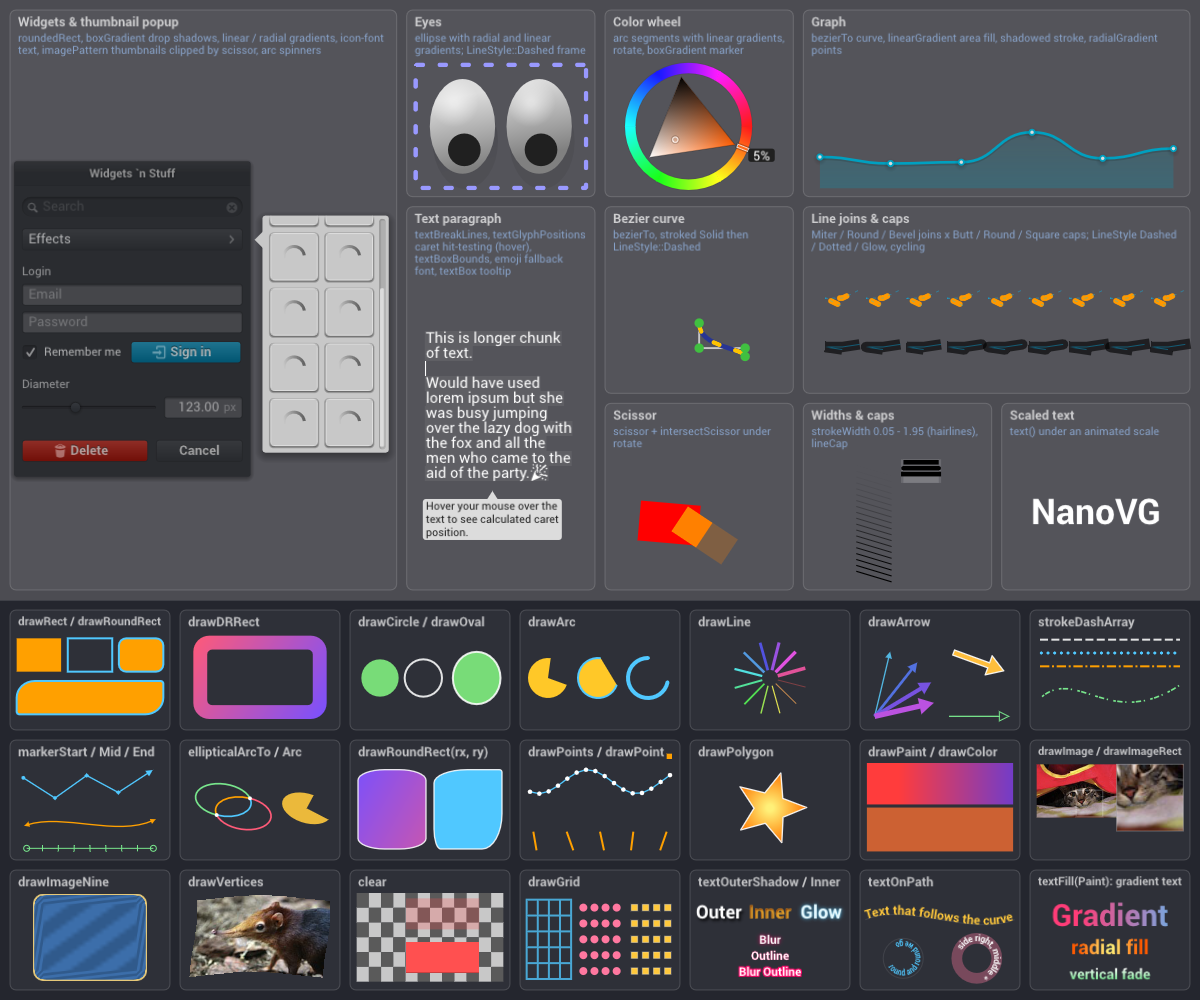
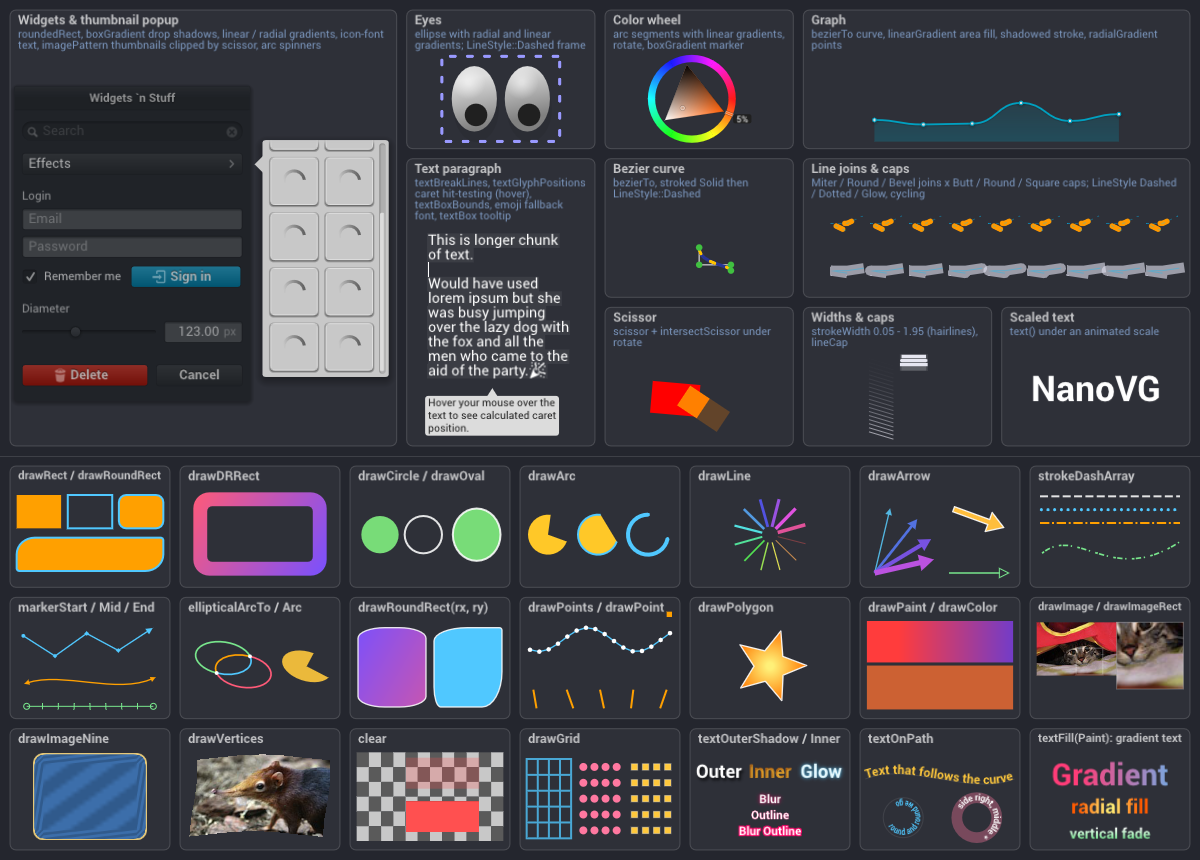
Unify the demo palette and compact the layout
- The classic panel uses the draw-calls panel's dark background, so both
  panels share one palette; the few black strokes (widths, caps, the
  second row of joins) are light so they stay visible.
- Tile headers are tighter (title and call list moved up, single line
  height), leaving more room for content.
- The example windows are 1200x860 instead of 1200x1000, with the
  draw-calls panel taking 47% of the height.
- README and screenshot updated.

diff --git a/example/stable/demo.c b/example/stable/demo.c
@@ -1126,7 +1126,7 @@ void drawWidths(NVGcontext* vg, float x, float y, float width)
 
     nvgSave(vg);
 
-    nvgStrokeColor(vg, nvgRGBA(0, 0, 0, 255));
+    nvgStrokeColor(vg, nvgRGBA(230, 230, 240, 255));
 
     for (i = 0; i < 20; i++) {
         float w = (i + 0.5f) * 0.1f;
@@ -1162,7 +1162,7 @@ void drawCaps(NVGcontext* vg, float x, float y, float width)
     nvgStrokeWidth(vg, lineWidth);
     for (i = 0; i < 3; i++) {
         nvgLineCap(vg, caps[i]);
-        nvgStrokeColor(vg, nvgRGBA(0, 0, 0, 255));
+        nvgStrokeColor(vg, nvgRGBA(230, 230, 240, 255));
         nvgBeginPath(vg);
         nvgMoveTo(vg, x, y + i * 10 + 5);
         nvgLineTo(vg, x + width, y + i * 10 + 5);
@@ -1268,6 +1268,7 @@ void drawScaledText(NVGcontext* vg, float x0, float y0, float t)
     nvgRestore(vg);
 }
 
+static NVGrect rect(float x, float y, float w, float h);
 static float drawCallsCell(NVGcontext* vg, NVGrect cell, const char* title, const char* calls);
 
 // One tile of the classic demo: its place in the panel grid, the size of the design space its
@@ -1377,7 +1378,7 @@ static void classicLines(NVGcontext* vg, float mx, float my, float t, int blowup
     nvgLineStyle(vg, styles[(int)(t / 5.0f) % 3]);
     drawLines(vg, 10, 60, 600, 60, 10.0f, nvgRGBA(255, 153, 0, 255), t * 3);
     nvgLineStyle(vg, NVG_LINE_SOLID);
-    drawLines(vg, 10, 140, 600, 50, 17.0f, nvgRGBA(0, 0, 0, 160), t);
+    drawLines(vg, 10, 140, 600, 50, 17.0f, nvgRGBA(220, 220, 235, 160), t);
 }
 
 static void classicScissor(NVGcontext* vg, float mx, float my, float t, int blowup, DemoData* data)
@@ -1431,6 +1432,9 @@ void renderClassicDemo(NVGcontext* vg, float x, float y, float width, float heig
     const float ch = (height - top - pad * rows) / rows;
     size_t i;
 
+    // Same panel background as the draw-calls panel below.
+    nvgFillColor(vg, nvgRGBA(36, 38, 46, 255));
+    nvgDrawRect(vg, rect(x, y, width, height), NVG_PAINT_FILL);
     if (cw <= 0.0f || ch <= 0.0f) return;
 
     for (i = 0; i < sizeof(tiles) / sizeof(tiles[0]); i++) {
@@ -1460,8 +1464,8 @@ void renderClassicDemo(NVGcontext* vg, float x, float y, float width, float heig
 
 void renderDemo(NVGcontext* vg, float mx, float my, float width, float height, float t, int blowup, DemoData* data)
 {
-    // The classic demo uses the top 60% of the window; the Skia-style draw-call showcase fills the rest.
-    const float drawCallsHeight = floorf(height * 0.4f);
+    // The classic demo uses the top 53% of the window; the Skia-style draw-call showcase fills the rest.
+    const float drawCallsHeight = floorf(height * 0.47f);
     renderClassicDemo(vg, 0, 0, width, height - drawCallsHeight, mx, my, t, blowup, data);
     renderDrawCallsDemo(vg, 0, height - drawCallsHeight, width, drawCallsHeight, t, data);
 }
@@ -1502,12 +1506,12 @@ static float drawCallsCell(NVGcontext* vg, NVGrect cell, const char* title, cons
 
     nvgFontSize(vg, 11.0f);
     nvgFontFace(vg, "sans");
-    nvgTextLineHeight(vg, 1.1f);
-    nvgFillColor(vg, nvgRGBA(160, 200, 255, 170));
-    nvgTextBoxBounds(vg, cell.x + 8, cell.y + 23, maxW, calls, NULL, b);
-    nvgTextBox(vg, cell.x + 8, cell.y + 23, maxW, calls, NULL);
     nvgTextLineHeight(vg, 1.0f);
-    return b[3] - cell.y + 4.0f;
+    nvgFillColor(vg, nvgRGBA(160, 200, 255, 170));
+    nvgTextBoxBounds(vg, cell.x + 8, cell.y + 19, maxW, calls, NULL, b);
+    nvgTextBox(vg, cell.x + 8, cell.y + 19, maxW, calls, NULL);
+    nvgTextLineHeight(vg, 1.0f);
+    return b[3] - cell.y + 2.0f;
 }
 
 static void demoRects(NVGcontext* vg, NVGrect c, float t, const DemoData* data)

diff --git a/example/demo.cpp b/example/demo.cpp
@@ -1133,7 +1133,7 @@ void drawWidths(nvg::Context& vg, float x, float y, float width)
 
     vg.save();
 
-    vg.strokeColor(nvg::rgba(0, 0, 0, 255));
+    vg.strokeColor(nvg::rgba(230, 230, 240, 255));
 
     for (i = 0; i < 20; i++) {
         float w = (i + 0.5f) * 0.1f;
@@ -1169,7 +1169,7 @@ void drawCaps(nvg::Context& vg, float x, float y, float width)
     vg.strokeWidth(lineWidth);
     for (i = 0; i < 3; i++) {
         vg.lineCap(caps[i]);
-        vg.strokeColor(nvg::rgba(0, 0, 0, 255));
+        vg.strokeColor(nvg::rgba(230, 230, 240, 255));
         vg.beginPath();
         vg.moveTo(x, y + i * 10 + 5);
         vg.lineTo(x + width, y + i * 10 + 5);
@@ -1343,11 +1343,15 @@ static void classicLines(nvg::Context& vg, float mx, float my, float t, int blow
     vg.lineStyle(static_cast<int>(styles[(int)(t / 5.0f) % 3]));
     drawLines(vg, 10, 60, 600, 60, 10.0f, nvg::rgba(255, 153, 0, 255), t * 3);
     vg.lineStyle(static_cast<int>(nvg::LineStyle::Solid));
-    drawLines(vg, 10, 140, 600, 50, 17.0f, nvg::rgba(0, 0, 0, 160), t);
+    drawLines(vg, 10, 140, 600, 50, 17.0f, nvg::rgba(220, 220, 235, 160), t);
 }
 
 void renderClassicDemo(nvg::Context& vg, float x, float y, float width, float height, float mx, float my, float t, int blowup, DemoData& data)
 {
+    // Same panel background as the draw-calls panel below.
+    vg.fillColor(nvg::rgba(36, 38, 46, 255));
+    vg.drawRect(nvg::Rect{x, y, width, height});
+
     using V = nvg::Context&;
     using D = DemoData&;
     static const ClassicTile tiles[] = {
@@ -1403,8 +1407,8 @@ void renderClassicDemo(nvg::Context& vg, float x, float y, float width, float he
 
 void renderDemo(nvg::Context& vg, float mx, float my, float width, float height, float t, int blowup, DemoData& data)
 {
-    // The classic demo uses the top 60% of the window; the Skia-style draw-call showcase fills the rest.
-    const float drawCallsHeight = std::floor(height * 0.4f);
+    // The classic demo uses the top 53% of the window; the Skia-style draw-call showcase fills the rest.
+    const float drawCallsHeight = std::floor(height * 0.47f);
     renderClassicDemo(vg, 0, 0, width, height - drawCallsHeight, mx, my, t, blowup, data);
     renderDrawCallsDemo(vg, 0, height - drawCallsHeight, width, drawCallsHeight, t, data);
 }
@@ -1426,18 +1430,18 @@ static float drawCallsCell(nvg::Context& vg, const nvg::Rect& cell, const char* 
     const float maxW = cell.w - 16.0f, titleW = vg.textBounds(0, 0, title, nullptr, nullptr);
     if (titleW > maxW && maxW > 0.0f) vg.fontSize(13.0f * maxW / titleW);
     vg.fillColor(nvg::rgba(255, 255, 255, 180));
-    vg.text(cell.x + 8, cell.y + 6, title, nullptr);
+    vg.text(cell.x + 8, cell.y + 4, title, nullptr);
     if (calls == nullptr || maxW <= 0.0f) return 0.0f;
 
     vg.fontSize(11.0f);
     vg.fontFace("sans");
-    vg.textLineHeight(1.1f);
+    vg.textLineHeight(1.0f);
     vg.fillColor(nvg::rgba(160, 200, 255, 170));
     std::array<float, 4> b{};
-    vg.textBoxBounds(cell.x + 8, cell.y + 23, maxW, calls, nullptr, b.data());
-    vg.textBox(cell.x + 8, cell.y + 23, maxW, calls, nullptr);
+    vg.textBoxBounds(cell.x + 8, cell.y + 19, maxW, calls, nullptr, b.data());
+    vg.textBox(cell.x + 8, cell.y + 19, maxW, calls, nullptr);
     vg.textLineHeight(1.0f);
-    return b[3] - cell.y + 4.0f;
+    return b[3] - cell.y + 2.0f;
 }
 
 static void demoRects(nvg::Context& vg, const nvg::Rect& c, float t)

diff --git a/example/stable/example_gles2.c b/example/stable/example_gles2.c
@@ -67,8 +67,8 @@ int main()
     glfwWindowHint(GLFW_CONTEXT_VERSION_MAJOR, 2);
     glfwWindowHint(GLFW_CONTEXT_VERSION_MINOR, 0);
 
-    window = glfwCreateWindow(1200, 1000, "NanoVG", NULL, NULL);
-    //	window = glfwCreateWindow(1200, 1000, "NanoVG", glfwGetPrimaryMonitor(), NULL);
+    window = glfwCreateWindow(1200, 860, "NanoVG", NULL, NULL);
+    //	window = glfwCreateWindow(1200, 860, "NanoVG", glfwGetPrimaryMonitor(), NULL);
     if (!window) {
         glfwTerminate();
         return -1;

diff --git a/example/stable/example_gles3.c b/example/stable/example_gles3.c
@@ -67,8 +67,8 @@ int main()
     glfwWindowHint(GLFW_CONTEXT_VERSION_MAJOR, 3);
     glfwWindowHint(GLFW_CONTEXT_VERSION_MINOR, 0);
 
-    window = glfwCreateWindow(1200, 1000, "NanoVG", NULL, NULL);
-    //	window = glfwCreateWindow(1200, 1000, "NanoVG", glfwGetPrimaryMonitor(), NULL);
+    window = glfwCreateWindow(1200, 860, "NanoVG", NULL, NULL);
+    //	window = glfwCreateWindow(1200, 860, "NanoVG", glfwGetPrimaryMonitor(), NULL);
     if (!window) {
         glfwTerminate();
         return -1;

diff --git a/example/stable/example_gl3.c b/example/stable/example_gl3.c
@@ -114,8 +114,8 @@ int main(int argc, char** argv)
 #ifdef DEMO_MSAA
     glfwWindowHint(GLFW_SAMPLES, 4);
 #endif
-    window = glfwCreateWindow(1200, 1000, "NanoVG", NULL, NULL);
-    //	window = glfwCreateWindow(1200, 1000, "NanoVG", glfwGetPrimaryMonitor(), NULL);
+    window = glfwCreateWindow(1200, 860, "NanoVG", NULL, NULL);
+    //	window = glfwCreateWindow(1200, 860, "NanoVG", glfwGetPrimaryMonitor(), NULL);
     if (!window) {
         glfwTerminate();
         return -1;

diff --git a/example/stable/example_gl2.c b/example/stable/example_gl2.c
@@ -70,8 +70,8 @@ int main()
     glfwWindowHint(GLFW_SAMPLES, 4);
 #endif
 
-    window = glfwCreateWindow(1200, 1000, "NanoVG", NULL, NULL);
-    //	window = glfwCreateWindow(1200, 1000, "NanoVG", glfwGetPrimaryMonitor(), NULL);
+    window = glfwCreateWindow(1200, 860, "NanoVG", NULL, NULL);
+    //	window = glfwCreateWindow(1200, 860, "NanoVG", glfwGetPrimaryMonitor(), NULL);
     if (!window) {
         glfwTerminate();
         return -1;

diff --git a/example/example_vk.cpp b/example/example_vk.cpp
@@ -658,7 +658,7 @@ int main(int argc, char** argv)
     initGraph(cpuGraph, GRAPH_RENDER_MS, "CPU Time");
     initGraph(gpuGraph, GRAPH_RENDER_MS, "GPU Time");
 
-    NvgWindow* window = nvgwin_create(1200, 1000, "NanoVG (Vulkan)", NVGWIN_PROFILE_VULKAN, 0, 0);
+    NvgWindow* window = nvgwin_create(1200, 860, "NanoVG (Vulkan)", NVGWIN_PROFILE_VULKAN, 0, 0);
     if (!window) {
         nvgwin_shutdown();
         return -1;

diff --git a/example/stable/example_vk.c b/example/stable/example_vk.c
@@ -674,7 +674,7 @@ int main(int argc, char** argv)
     initGraph(&gpuGraph, GRAPH_RENDER_MS, "GPU Time");
 
     glfwWindowHint(GLFW_CLIENT_API, GLFW_NO_API);
-    window = glfwCreateWindow(1200, 1000, "NanoVG (Vulkan, C API)", NULL, NULL);
+    window = glfwCreateWindow(1200, 860, "NanoVG (Vulkan, C API)", NULL, NULL);
     if (!window) {
         glfwTerminate();
         return -1;

diff --git a/example/example_gl3.cpp b/example/example_gl3.cpp
@@ -114,7 +114,7 @@ int main(int argc, char** argv)
 #else
     const int msaa = 0;
 #endif
-    window = nvgwin_create(1200, 1000, "NanoVG", NVGWIN_PROFILE_GL3, msaa, 1);
+    window = nvgwin_create(1200, 860, "NanoVG", NVGWIN_PROFILE_GL3, msaa, 1);
     if (!window) {
         nvgwin_shutdown();
         return -1;

diff --git a/example/example_gl2.cpp b/example/example_gl2.cpp
@@ -76,7 +76,7 @@ int main()
     const int msaa = 0;
 #endif
 
-    window = nvgwin_create(1200, 1000, "NanoVG", NVGWIN_PROFILE_GL2, msaa, 0);
+    window = nvgwin_create(1200, 860, "NanoVG", NVGWIN_PROFILE_GL2, msaa, 0);
     if (!window) {
         nvgwin_shutdown();
         return -1;

diff --git a/README.md b/README.md
@@ -23,7 +23,7 @@ This repository’s **`modernize-cpp`** branch extends upstream NanoVG with a C+
 The `example_gl3`, `example_vk`, `example_stable_gl3` and `example_stable_vk` binaries accept `--test N` (and `--test=N`) to run a fixed-frame capture path useful for CI (see `.cursor/skills/verify` in this repo). Each run writes `screenshotNNN.png` to the working directory and compares it against an existing file of the same name, so running two of them from the same directory checks one against the other (Vulkan against GL, or the stable C API against C++). The two agree to within 2/255 per channel, apart from occasional single rows where an edge falls exactly on a pixel center (GL and Vulkan resolve that tie differently).
 
 ## Screenshot
-<img width="1200" height="1000" alt="NanoVG++ demo: classic NanoVG demo tiles on top, Skia-style draw calls panel below" src="docs/demo.png" />
+<img width="1200" height="860" alt="NanoVG++ demo: classic NanoVG demo tiles on top, Skia-style draw calls panel below" src="docs/demo.png" />
 
 The demo is split into labeled tiles. The top panel is the classic NanoVG demo (widgets, eyes, color wheel, graph, text paragraph, line joins and caps, scissor, …), one tile per feature, each naming the draw calls it exercises; the bottom panel has one tile per Skia-style draw call and newer feature.
 
